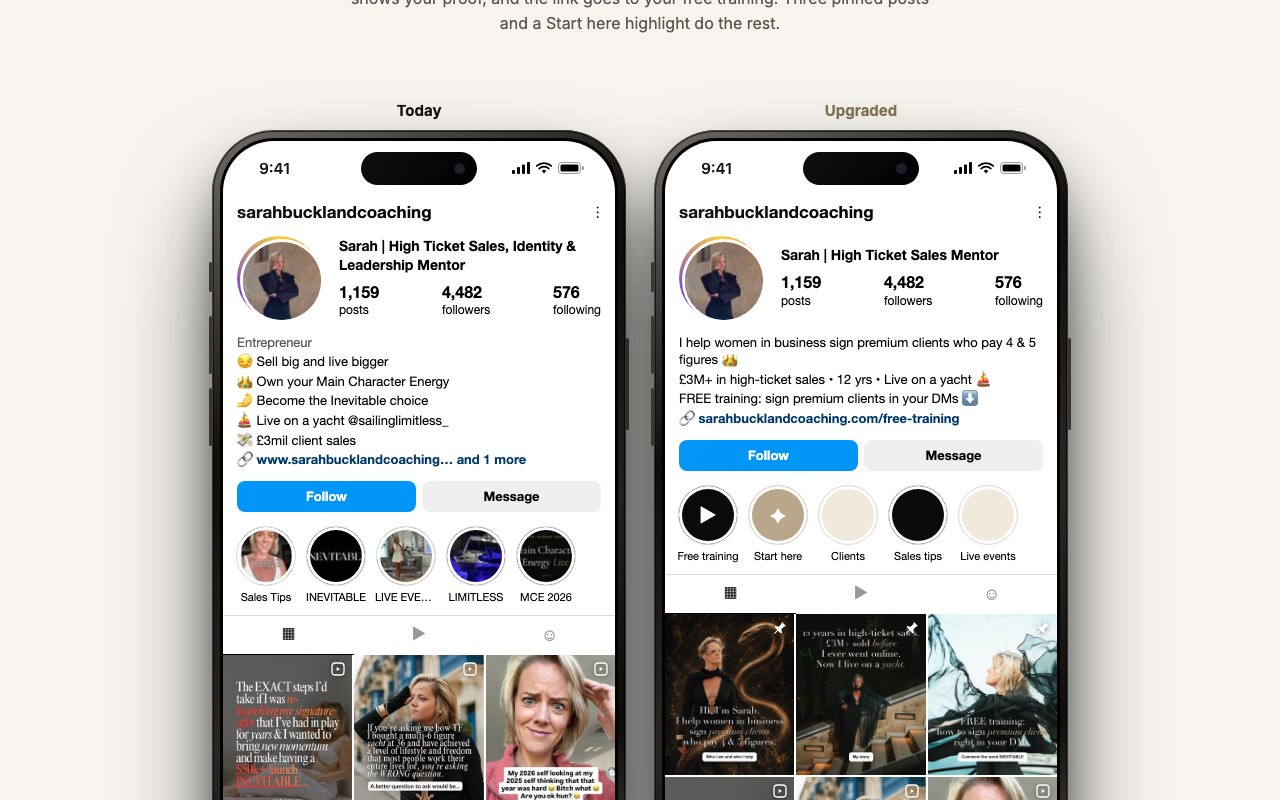
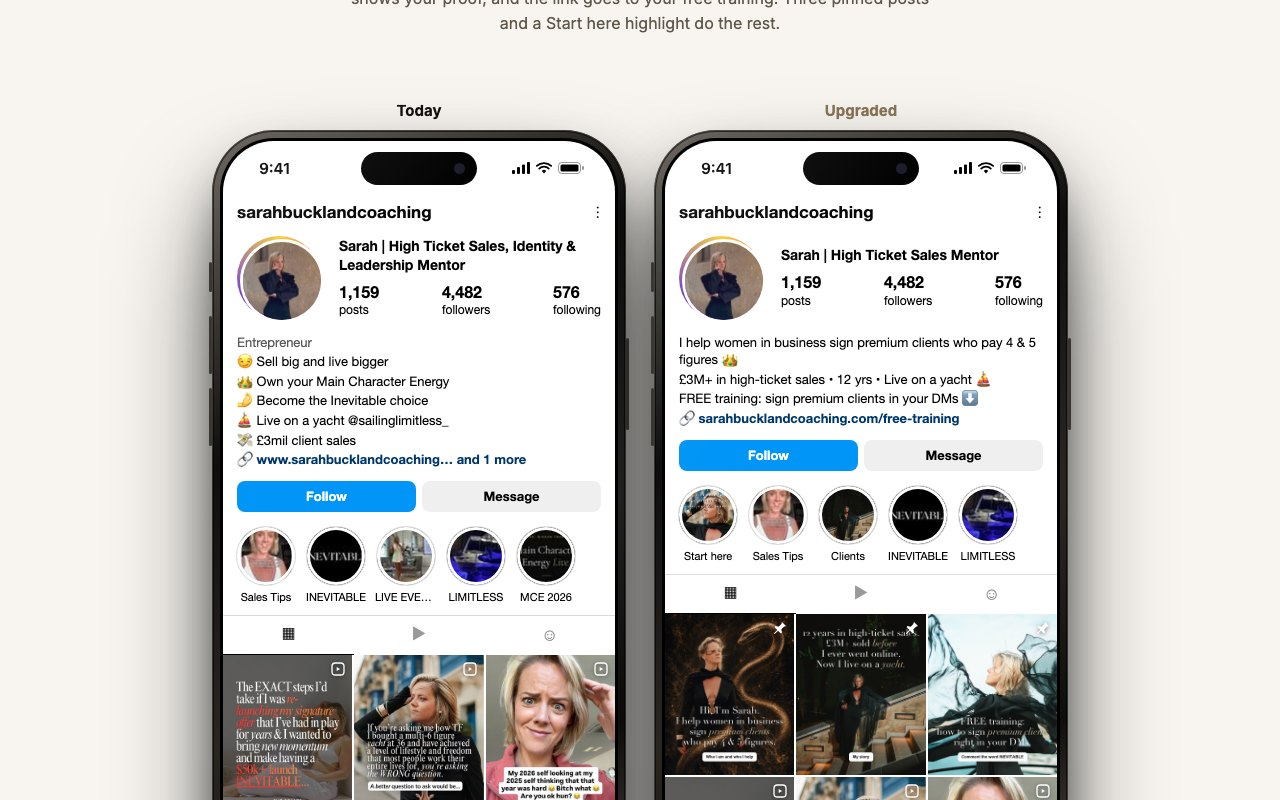
IG profile: highlight covers from her own photos, Start here first, no live-event highlights

Changed region(s): [[0.5312, 0.5938, 0.8125, 0.7188]]

diff --git a/ig-profile/index.html b/ig-profile/index.html
@@ -70,7 +70,7 @@
     <div class="pright"><b class="pname">Sarah | High Ticket Sales Mentor</b><div class="pstats"><span><b>1,159</b>posts</span><span><b>4,482</b>followers</span><span><b>576</b>following</span></div></div></div>
   <div class="pbio"><p>I help women in business sign premium clients who pay 4 &amp; 5 figures &#128081;</p><p>&pound;3M+ in high-ticket sales &bull; 12 yrs &bull; Live on a yacht &#9973;&#65039;</p><p>FREE training: sign premium clients in your DMs &#11015;&#65039;</p><p class="plink">&#128279; sarahbucklandcoaching.com/free-training</p></div>
   <div class="pbtn"><span class="fol">Follow</span><span>Message</span></div>
-  <div class="hl"><span class="hli"><i style="background:#0a0a0a">&#9654;</i><b>Free training</b></span><span class="hli"><i style="background:#b9a68b">&#10022;</i><b>Start here</b></span><span class="hli"><i style="background:#f1e9db"></i><b>Clients</b></span><span class="hli"><i style="background:#0a0a0a"></i><b>Sales tips</b></span><span class="hli"><i style="background:#f1e9db"></i><b>Live events</b></span></div>
+  <div class="hl"><span class="hli"><i style="background:url(../assets/img/profile/start-1.jpg) center 25%/cover"></i><b>Start here</b></span><span class="hli"><i style="background:url(../assets/img/profile/hl0.jpg) center/cover"></i><b>Sales Tips</b></span><span class="hli"><i style="background:url(../assets/img/thankyou/welcome.jpg) center 40%/cover"></i><b>Clients</b></span><span class="hli"><i style="background:url(../assets/img/profile/hl1.jpg) center/cover"></i><b>INEVITABLE</b></span><span class="hli"><i style="background:url(../assets/img/profile/hl3.jpg) center/cover"></i><b>LIMITLESS</b></span></div>
   <div class="ptabs"><span class="on">&#9638;</span><span>&#9654;</span><span>&#9786;</span></div>
   <div class="grid3"><span class="gc"><svg class="pin" viewBox="0 0 24 24"><path d="M15 3l6 6-3 1-4 4 1 5-2 1-4-4-5 5-1-1 5-5-4-4 1-2 5 1 4-4z" fill="#fff"/></svg><img src="../assets/img/post/pin-1.jpg" alt=""></span><span class="gc"><svg class="pin" viewBox="0 0 24 24"><path d="M15 3l6 6-3 1-4 4 1 5-2 1-4-4-5 5-1-1 5-5-4-4 1-2 5 1 4-4z" fill="#fff"/></svg><img src="../assets/img/post/pin-2.jpg" alt=""></span><span class="gc"><svg class="pin" viewBox="0 0 24 24"><path d="M15 3l6 6-3 1-4 4 1 5-2 1-4-4-5 5-1-1 5-5-4-4 1-2 5 1 4-4z" fill="#fff"/></svg><img src="../assets/img/post/pin-3.jpg" alt=""></span><span class="gc"><svg class="rl" viewBox="0 0 24 24"><rect x="3" y="3" width="18" height="18" rx="5" fill="none" stroke="#fff" stroke-width="2"/><path d="M10 9v6l5-3z" fill="#fff"/></svg><img src="../assets/img/profile/DXZZ-kZjZ-O.jpg" alt=""></span><span class="gc"><svg class="rl" viewBox="0 0 24 24"><rect x="3" y="3" width="18" height="18" rx="5" fill="none" stroke="#fff" stroke-width="2"/><path d="M10 9v6l5-3z" fill="#fff"/></svg><img src="../assets/img/profile/DbnhbDljemV.jpg" alt=""></span><span class="gc"><svg class="rl" viewBox="0 0 24 24"><rect x="3" y="3" width="18" height="18" rx="5" fill="none" stroke="#fff" stroke-width="2"/><path d="M10 9v6l5-3z" fill="#fff"/></svg><img src="../assets/img/profile/De_6NpAjT2H.jpg" alt=""></span></div>
 </div></div><div class="tabbar"><svg viewBox="0 0 24 24"><path d="M3 10.5L12 3l9 7.5V21h-6v-6H9v6H3z" fill="#000"/></svg><svg viewBox="0 0 24 24"><circle cx="11" cy="11" r="7"/><path d="M20.5 20.5l-4.5-4.5"/></svg><svg viewBox="0 0 24 24"><rect x="3" y="3" width="18" height="18" rx="5"/><path d="M12 8v8M8 12h8"/></svg><svg viewBox="0 0 24 24"><rect x="3" y="3" width="18" height="18" rx="5"/><path d="M3 8.5h18M8 3l3 5.5M14 3l3 5.5M10 12v5l4.5-2.5z"/></svg><img class="me" src="../assets/img/profile/pfp.jpg" alt="" /></div>
